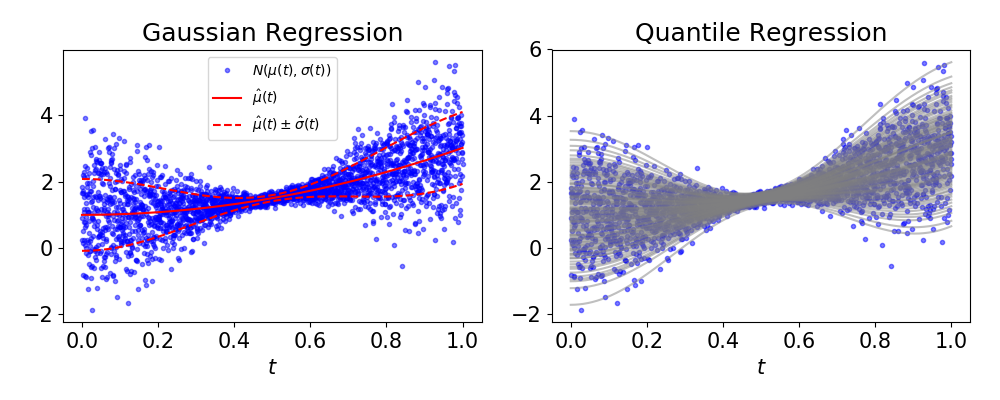
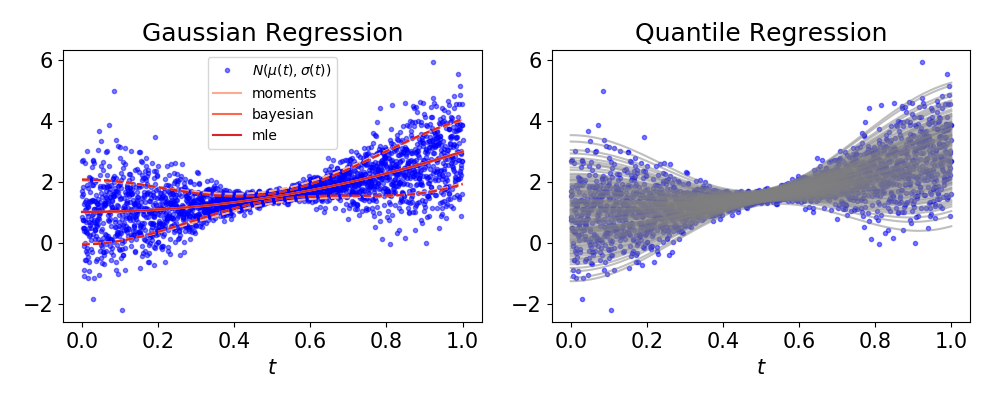
Update figure with new source code

diff --git a/figures/example.py b/figures/example.py
@@ -47,6 +47,8 @@ mpl.rcParams['font.size'] = 15
 
 if __name__ == "__main__":
 	
+	np.random.seed(42)
+	
 	## Generate data
 	size = 2500
 	t = np.linspace( 0 , 1 , size )
@@ -58,16 +60,20 @@ if __name__ == "__main__":
 	Y    = np.random.normal( loc = loc , scale = scale , size = size )
 	
 	
-	## Fit a Gaussian law
-	law = sd.NormalLaw()
-	law.fit( Y , loc_cov = X0 , scale_cov = X1 )
+	## Fit a Gaussian law with MLE
+	floc   = []
+	fscale = []
+	lmethods = ["moments","bayesian","mle"]
+	for method in lmethods:
+		law = sd.Normal(method = method)
+		law.fit( Y , c_loc = X0 , c_scale = X1 )
+		floc.append( law.loc )
+		fscale.append( law.scale )
 	
 	
 	## Fit a Quantile Regression
 	probs = np.linspace( 0.01 , 0.99 , 100 )
-	reg = sdnp.QuantileRegression( probs )
-	reg.fit( Y , np.vstack( (X0,X1) ).T )
-	qr = reg.quantiles
+	qr = sdnp.quantile( Y , probs , c_Y = np.vstack( (X0,X1) ).T )
 	
 	## Plot
 	nrow,ncol = 1,2
@@ -76,11 +82,13 @@ if __name__ == "__main__":
 	
 	ax  = fig.add_subplot( nrow , ncol , 1 )
 	ax.plot( t , Y , color = "blue" , linestyle = "" , marker = "." , alpha = 0.5 , label = r"$N(\mu(t),\sigma(t))$" )
-	ax.plot( t , law.loc , color = "red" , label = r"$\hat{\mu}(t)$" )
-	ax.plot( t , law.loc - law.scale , color = "red" , linestyle = "--" , label = r"$\hat{\mu}(t)\pm\hat{\sigma}(t)$")
-	ax.plot( t , law.loc + law.scale , color = "red" , linestyle = "--" )
+	color = [ c for c in plt.cm.Reds( np.linspace( 0.3 , 0.7 , 3 ) ) ]
+	for i,m in enumerate(lmethods):
+		ax.plot( t , floc[i] , color = color[i] , label = m )
+		ax.plot( t , floc[i] - fscale[i] , color = color[i] , linestyle = "--" )
+		ax.plot( t , floc[i] + fscale[i] , color = color[i] , linestyle = "--" )
+	
 	ax.set_xlabel( r"$t$" )
-#	ax.set_ylabel( r"$N(\mu(t),\sigma(t))$" )
 	ax.set_title( "Gaussian Regression" )
 	ax.legend( loc = "upper center" , fontsize = 10 )
 	
